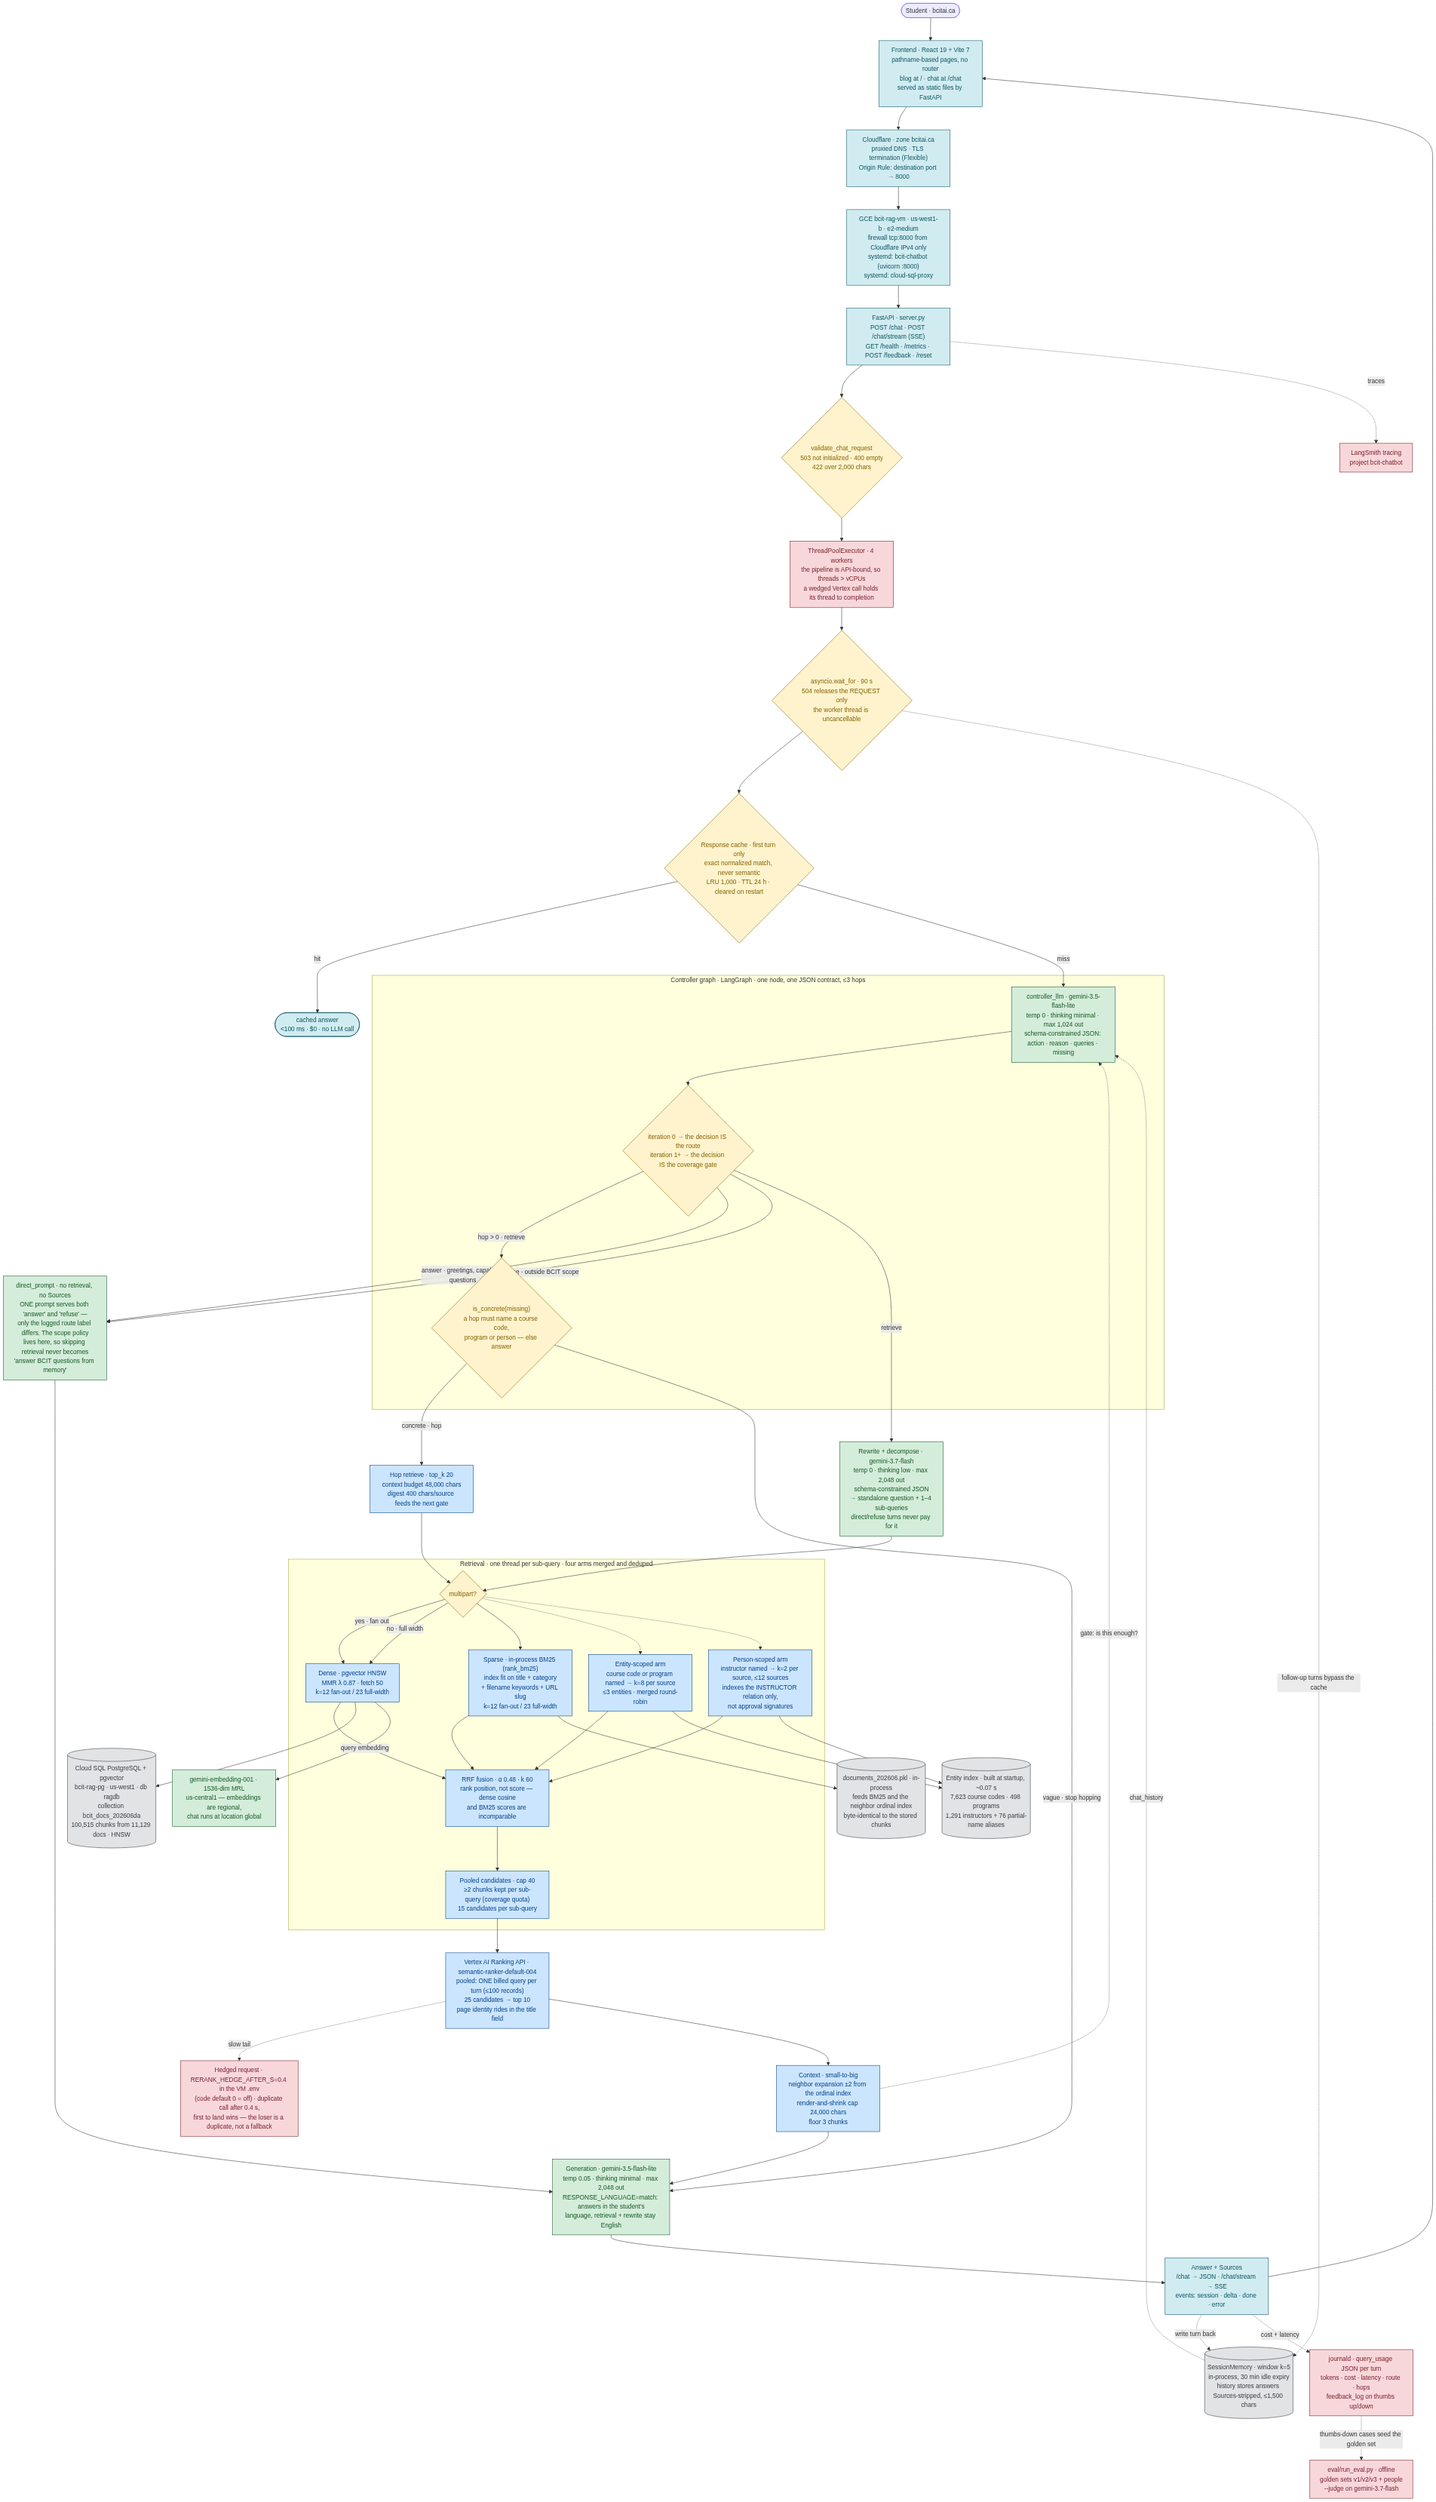
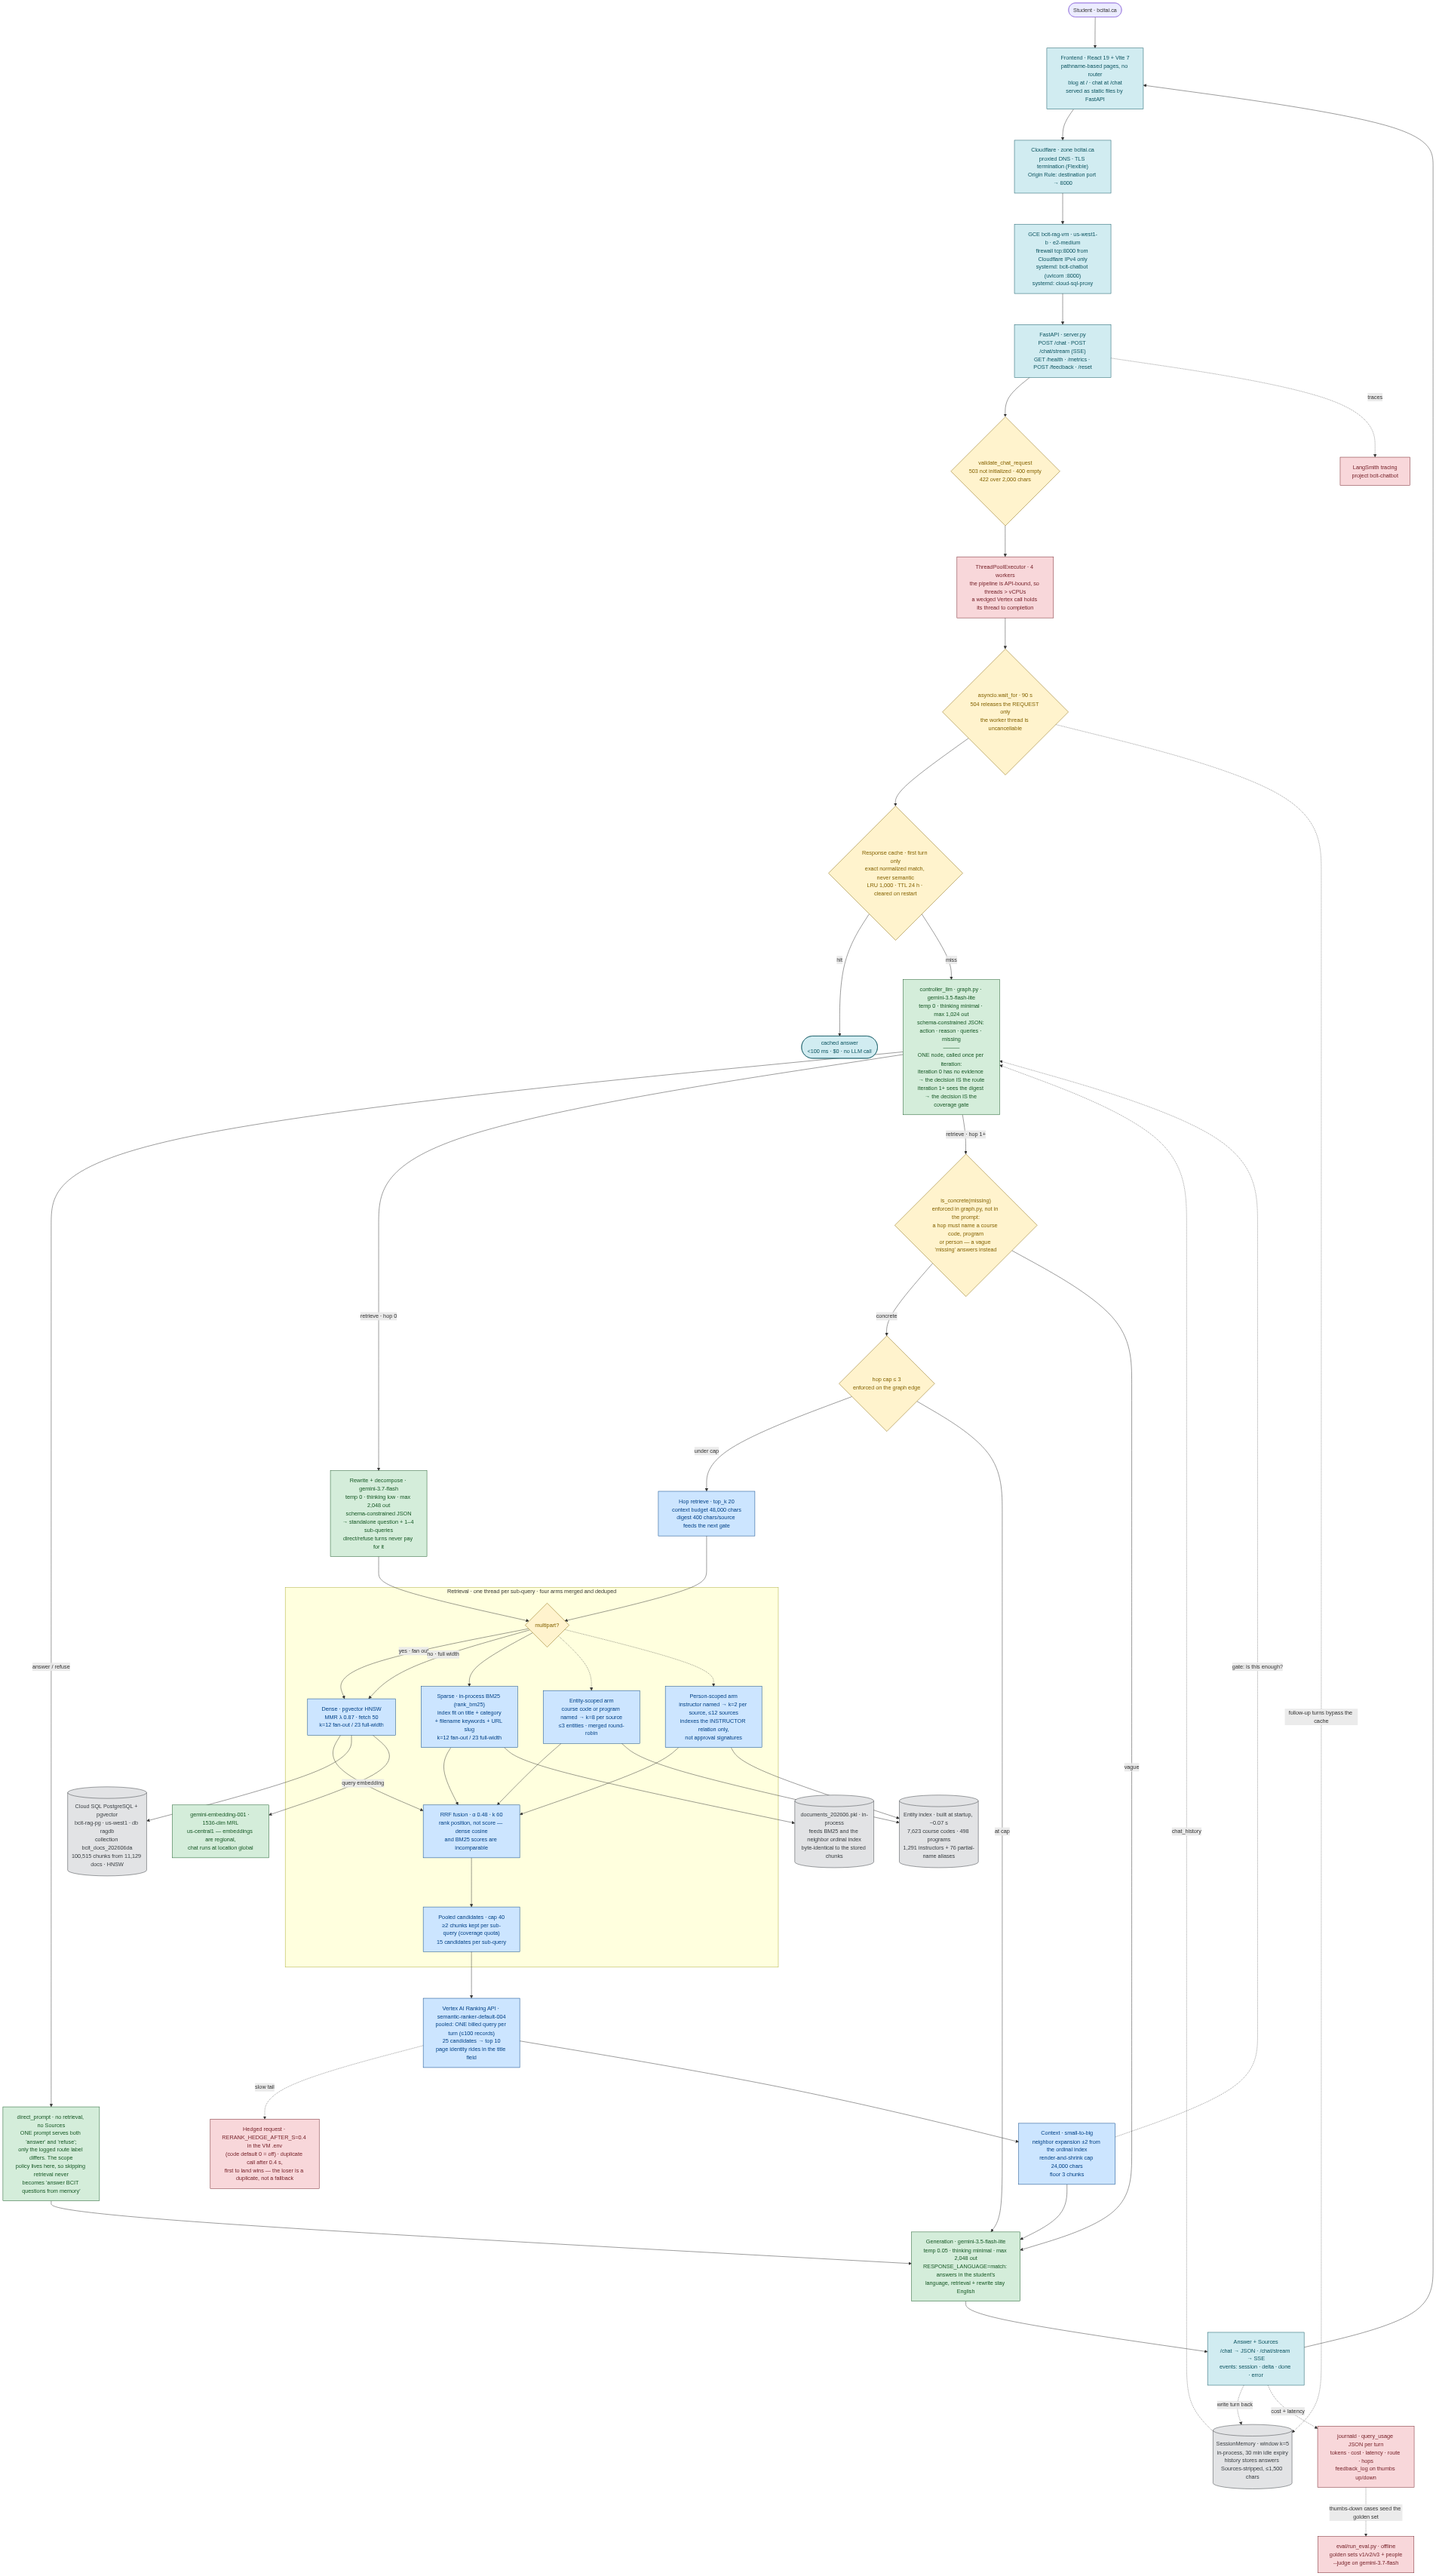
Stop the controller's edge labels from colliding with the hop guard
The routing labels ("answer · greetings, capability questions", "refuse ·
outside BCIT scope", "hop > 0 · retrieve") were long enough that Mermaid laid
them straight over the is_concrete(missing) diamond, which made the one part of
the diagram with real branching the hardest part to read.

Three changes, and two of them make the picture more accurate rather than just
tidier:

- The decision diamond is folded into the controller node. It was never a
  separate step — it is how the node's own `action` field is read — and
  splitting it left a subgraph box holding two nodes that Mermaid stretched
  across the full width with nothing in the middle.
- is_concrete and the hop cap are drawn as their own gates below the LLM node,
  outside any box. They are enforced in graph.py code, not asked of the prompt,
  and that is exactly why the gate can be trusted; drawing them inside the
  controller's box implied the model was being asked to respect them.
- Edge labels are cut to the branch name ("answer / refuse", "retrieve · hop 0",
  "retrieve · hop 1+", "concrete", "vague", "under cap", "at cap") and the
  detail moved into the nodes they point at. nodeSpacing 40 -> 70 and
  rankSpacing 55 -> 85 give what is left room to sit.

The config assertion still passes on all 49 values.

diff --git a/backend/draw_graph.py b/backend/draw_graph.py
@@ -82,9 +82,9 @@ MERMAID = """\
 config:
   flowchart:
     curve: basis
-    nodeSpacing: 40
-    rankSpacing: 55
-    padding: 12
+    nodeSpacing: 70
+    rankSpacing: 85
+    padding: 16
   themeVariables:
     fontSize: 15px
 ---
@@ -112,26 +112,27 @@ graph TD
     TMO -. "follow-up turns bypass the cache" .-> MEM
     MEM -. "chat_history" .-> CTRL
 
-    %% ── Controller graph · graph.py · USE_GRAPH=true ────────────────────
-    subgraph GRAPH ["Controller graph · LangGraph · one node, one JSON contract, ≤3 hops"]
-        CTRL["controller_llm · gemini-3.5-flash-lite<br/>temp 0 · thinking minimal · max 1,024 out<br/>schema-constrained JSON: action · reason · queries · missing"]
-        DEC{"iteration 0 → the decision IS the route<br/>iteration 1+ → the decision IS the coverage gate"}
-        CONC{"is_concrete(missing)<br/>a hop must name a course code,<br/>program or person — else answer"}
-        CTRL --> DEC
-        DEC -- "hop &gt; 0 · retrieve" --> CONC
-    end
+    %% ── Controller · graph.py · USE_GRAPH=true ──────────────────────────
+    %% One LLM node, then two guards that graph.py enforces in CODE rather
+    %% than asking of the prompt. That distinction is the whole reason the
+    %% gate can be trusted, so the drawing keeps the guards separate.
+    CTRL["controller_llm · graph.py · gemini-3.5-flash-lite<br/>temp 0 · thinking minimal · max 1,024 out<br/>schema-constrained JSON: action · reason · queries · missing<br/>———<br/>ONE node, called once per iteration:<br/>iteration 0 has no evidence → the decision IS the route<br/>iteration 1+ sees the digest → the decision IS the coverage gate"]
 
-    DIRECT["direct_prompt · no retrieval, no Sources<br/>ONE prompt serves both 'answer' and 'refuse' —<br/>only the logged route label differs. The scope policy<br/>lives here, so skipping retrieval never becomes<br/>'answer BCIT questions from memory'"]
-    DEC -- "answer · greetings, capability questions" --> DIRECT
-    DEC -- "refuse · outside BCIT scope" --> DIRECT
-    DEC -- "retrieve" --> RW
-    CONC -- "concrete · hop" --> HOP
-    CONC -- "vague · stop hopping" --> GEN
-    DIRECT --> GEN
+    CONC{"is_concrete(missing)<br/>enforced in graph.py, not in the prompt:<br/>a hop must name a course code, program<br/>or person — a vague 'missing' answers instead"}
+    CAP{"hop cap ≤ 3<br/>enforced on the graph edge"}
 
-    %% ── Rewrite + decompose · runs INSIDE the first retrieval ───────────
+    DIRECT["direct_prompt · no retrieval, no Sources<br/>ONE prompt serves both 'answer' and 'refuse';<br/>only the logged route label differs. The scope<br/>policy lives here, so skipping retrieval never<br/>becomes 'answer BCIT questions from memory'"]
     RW["Rewrite + decompose · gemini-3.7-flash<br/>temp 0 · thinking low · max 2,048 out<br/>schema-constrained JSON<br/>→ standalone question + 1–4 sub-queries<br/>direct/refuse turns never pay for it"]
     HOP["Hop retrieve · top_k 20<br/>context budget 48,000 chars<br/>digest 400 chars/source feeds the next gate"]
+
+    CTRL -- "answer / refuse" --> DIRECT
+    CTRL -- "retrieve · hop 0" --> RW
+    CTRL -- "retrieve · hop 1+" --> CONC
+    CONC -- "concrete" --> CAP
+    CONC -- "vague" --> GEN
+    CAP -- "under cap" --> HOP
+    CAP -- "at cap" --> GEN
+    DIRECT --> GEN
     RW --> FAN
     HOP --> FAN
 
@@ -203,7 +204,7 @@ graph TD
     classDef store fill:#e2e3e5,stroke:#383d41,color:#383d41
     classDef infra fill:#f8d7da,stroke:#721c24,color:#721c24
     classDef edge fill:#d1ecf1,stroke:#0c5460,color:#0c5460
-    class GV,TMO,CACHE,DEC,CONC,FAN gate
+    class GV,TMO,CACHE,CONC,CAP,FAN gate
     class HIT edge
     class CTRL,RW,GEN,DIRECT,EMB llm
     class DENSE,BM,ENT,PER,RRF,POOLM,RR,CTX,HOP retr

diff --git a/graph_mermaid.md b/graph_mermaid.md
@@ -2,9 +2,9 @@
 config:
   flowchart:
     curve: basis
-    nodeSpacing: 40
-    rankSpacing: 55
-    padding: 12
+    nodeSpacing: 70
+    rankSpacing: 85
+    padding: 16
   themeVariables:
     fontSize: 15px
 ---
@@ -32,26 +32,27 @@ graph TD
     TMO -. "follow-up turns bypass the cache" .-> MEM
     MEM -. "chat_history" .-> CTRL
 
-    %% ── Controller graph · graph.py · USE_GRAPH=true ────────────────────
-    subgraph GRAPH ["Controller graph · LangGraph · one node, one JSON contract, ≤3 hops"]
-        CTRL["controller_llm · gemini-3.5-flash-lite<br/>temp 0 · thinking minimal · max 1,024 out<br/>schema-constrained JSON: action · reason · queries · missing"]
-        DEC{"iteration 0 → the decision IS the route<br/>iteration 1+ → the decision IS the coverage gate"}
-        CONC{"is_concrete(missing)<br/>a hop must name a course code,<br/>program or person — else answer"}
-        CTRL --> DEC
-        DEC -- "hop &gt; 0 · retrieve" --> CONC
-    end
+    %% ── Controller · graph.py · USE_GRAPH=true ──────────────────────────
+    %% One LLM node, then two guards that graph.py enforces in CODE rather
+    %% than asking of the prompt. That distinction is the whole reason the
+    %% gate can be trusted, so the drawing keeps the guards separate.
+    CTRL["controller_llm · graph.py · gemini-3.5-flash-lite<br/>temp 0 · thinking minimal · max 1,024 out<br/>schema-constrained JSON: action · reason · queries · missing<br/>———<br/>ONE node, called once per iteration:<br/>iteration 0 has no evidence → the decision IS the route<br/>iteration 1+ sees the digest → the decision IS the coverage gate"]
 
-    DIRECT["direct_prompt · no retrieval, no Sources<br/>ONE prompt serves both 'answer' and 'refuse' —<br/>only the logged route label differs. The scope policy<br/>lives here, so skipping retrieval never becomes<br/>'answer BCIT questions from memory'"]
-    DEC -- "answer · greetings, capability questions" --> DIRECT
-    DEC -- "refuse · outside BCIT scope" --> DIRECT
-    DEC -- "retrieve" --> RW
-    CONC -- "concrete · hop" --> HOP
-    CONC -- "vague · stop hopping" --> GEN
-    DIRECT --> GEN
+    CONC{"is_concrete(missing)<br/>enforced in graph.py, not in the prompt:<br/>a hop must name a course code, program<br/>or person — a vague 'missing' answers instead"}
+    CAP{"hop cap ≤ 3<br/>enforced on the graph edge"}
 
-    %% ── Rewrite + decompose · runs INSIDE the first retrieval ───────────
+    DIRECT["direct_prompt · no retrieval, no Sources<br/>ONE prompt serves both 'answer' and 'refuse';<br/>only the logged route label differs. The scope<br/>policy lives here, so skipping retrieval never<br/>becomes 'answer BCIT questions from memory'"]
     RW["Rewrite + decompose · gemini-3.7-flash<br/>temp 0 · thinking low · max 2,048 out<br/>schema-constrained JSON<br/>→ standalone question + 1–4 sub-queries<br/>direct/refuse turns never pay for it"]
     HOP["Hop retrieve · top_k 20<br/>context budget 48,000 chars<br/>digest 400 chars/source feeds the next gate"]
+
+    CTRL -- "answer / refuse" --> DIRECT
+    CTRL -- "retrieve · hop 0" --> RW
+    CTRL -- "retrieve · hop 1+" --> CONC
+    CONC -- "concrete" --> CAP
+    CONC -- "vague" --> GEN
+    CAP -- "under cap" --> HOP
+    CAP -- "at cap" --> GEN
+    DIRECT --> GEN
     RW --> FAN
     HOP --> FAN
 
@@ -123,7 +124,7 @@ graph TD
     classDef store fill:#e2e3e5,stroke:#383d41,color:#383d41
     classDef infra fill:#f8d7da,stroke:#721c24,color:#721c24
     classDef edge fill:#d1ecf1,stroke:#0c5460,color:#0c5460
-    class GV,TMO,CACHE,DEC,CONC,FAN gate
+    class GV,TMO,CACHE,CONC,CAP,FAN gate
     class HIT edge
     class CTRL,RW,GEN,DIRECT,EMB llm
     class DENSE,BM,ENT,PER,RRF,POOLM,RR,CTX,HOP retr
